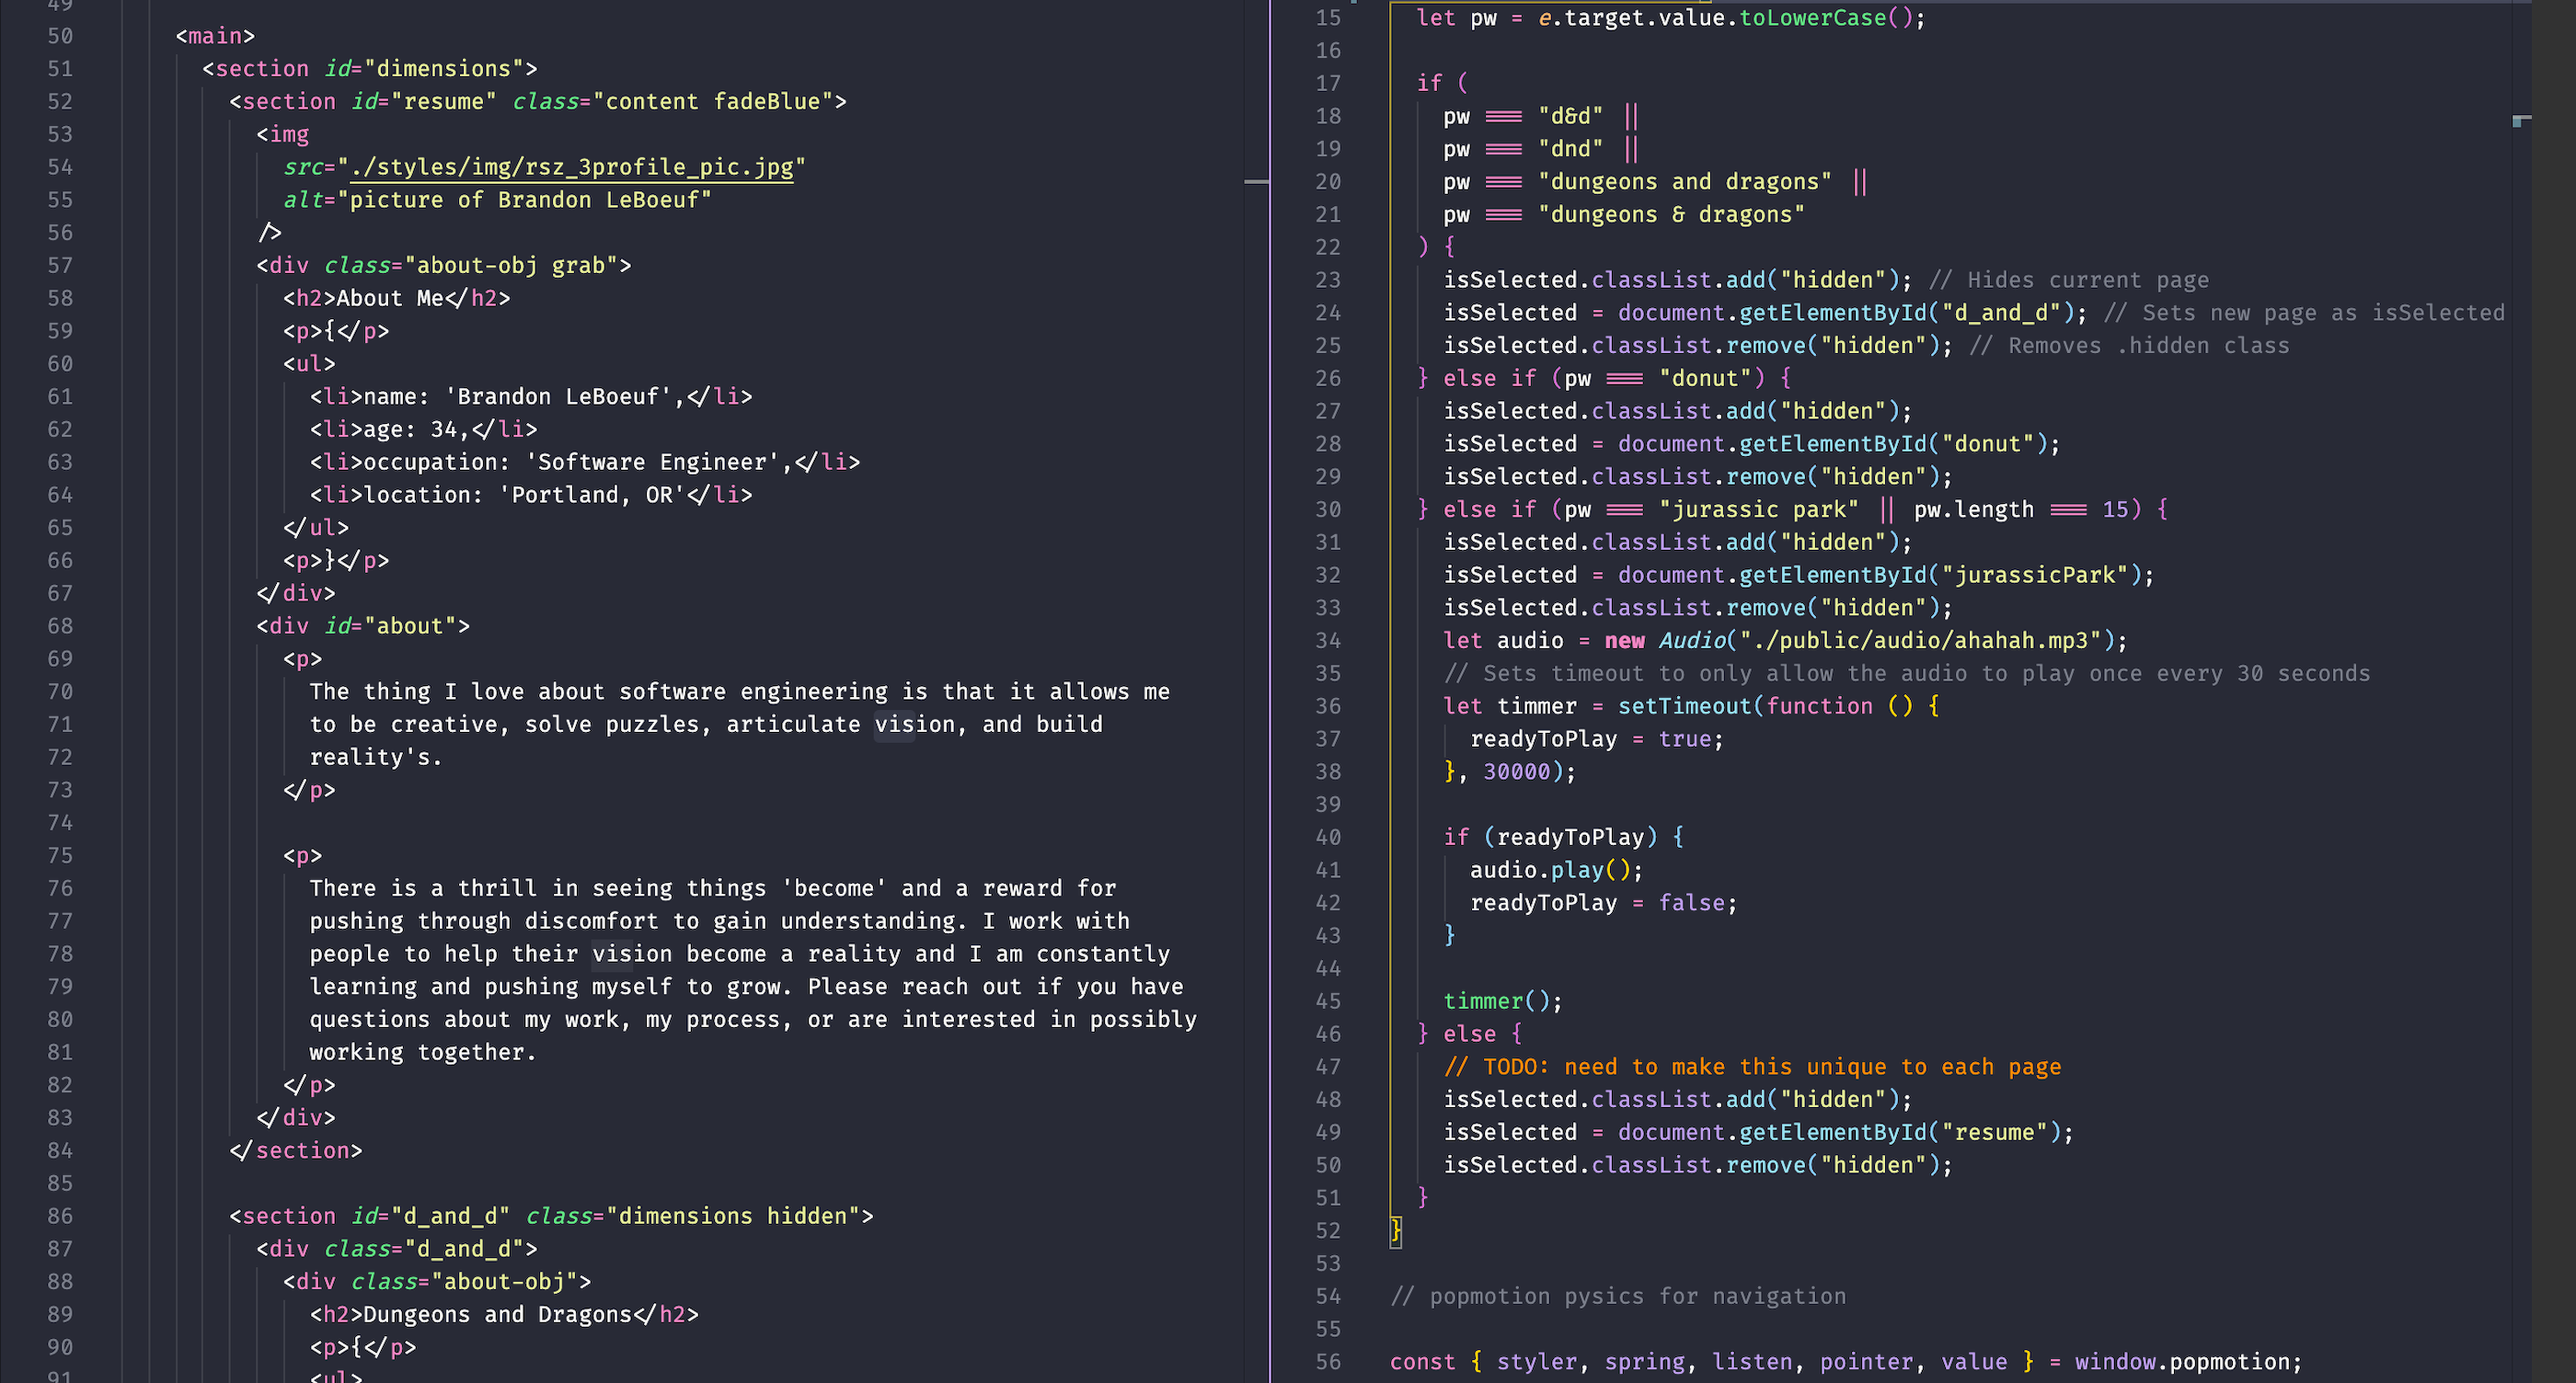
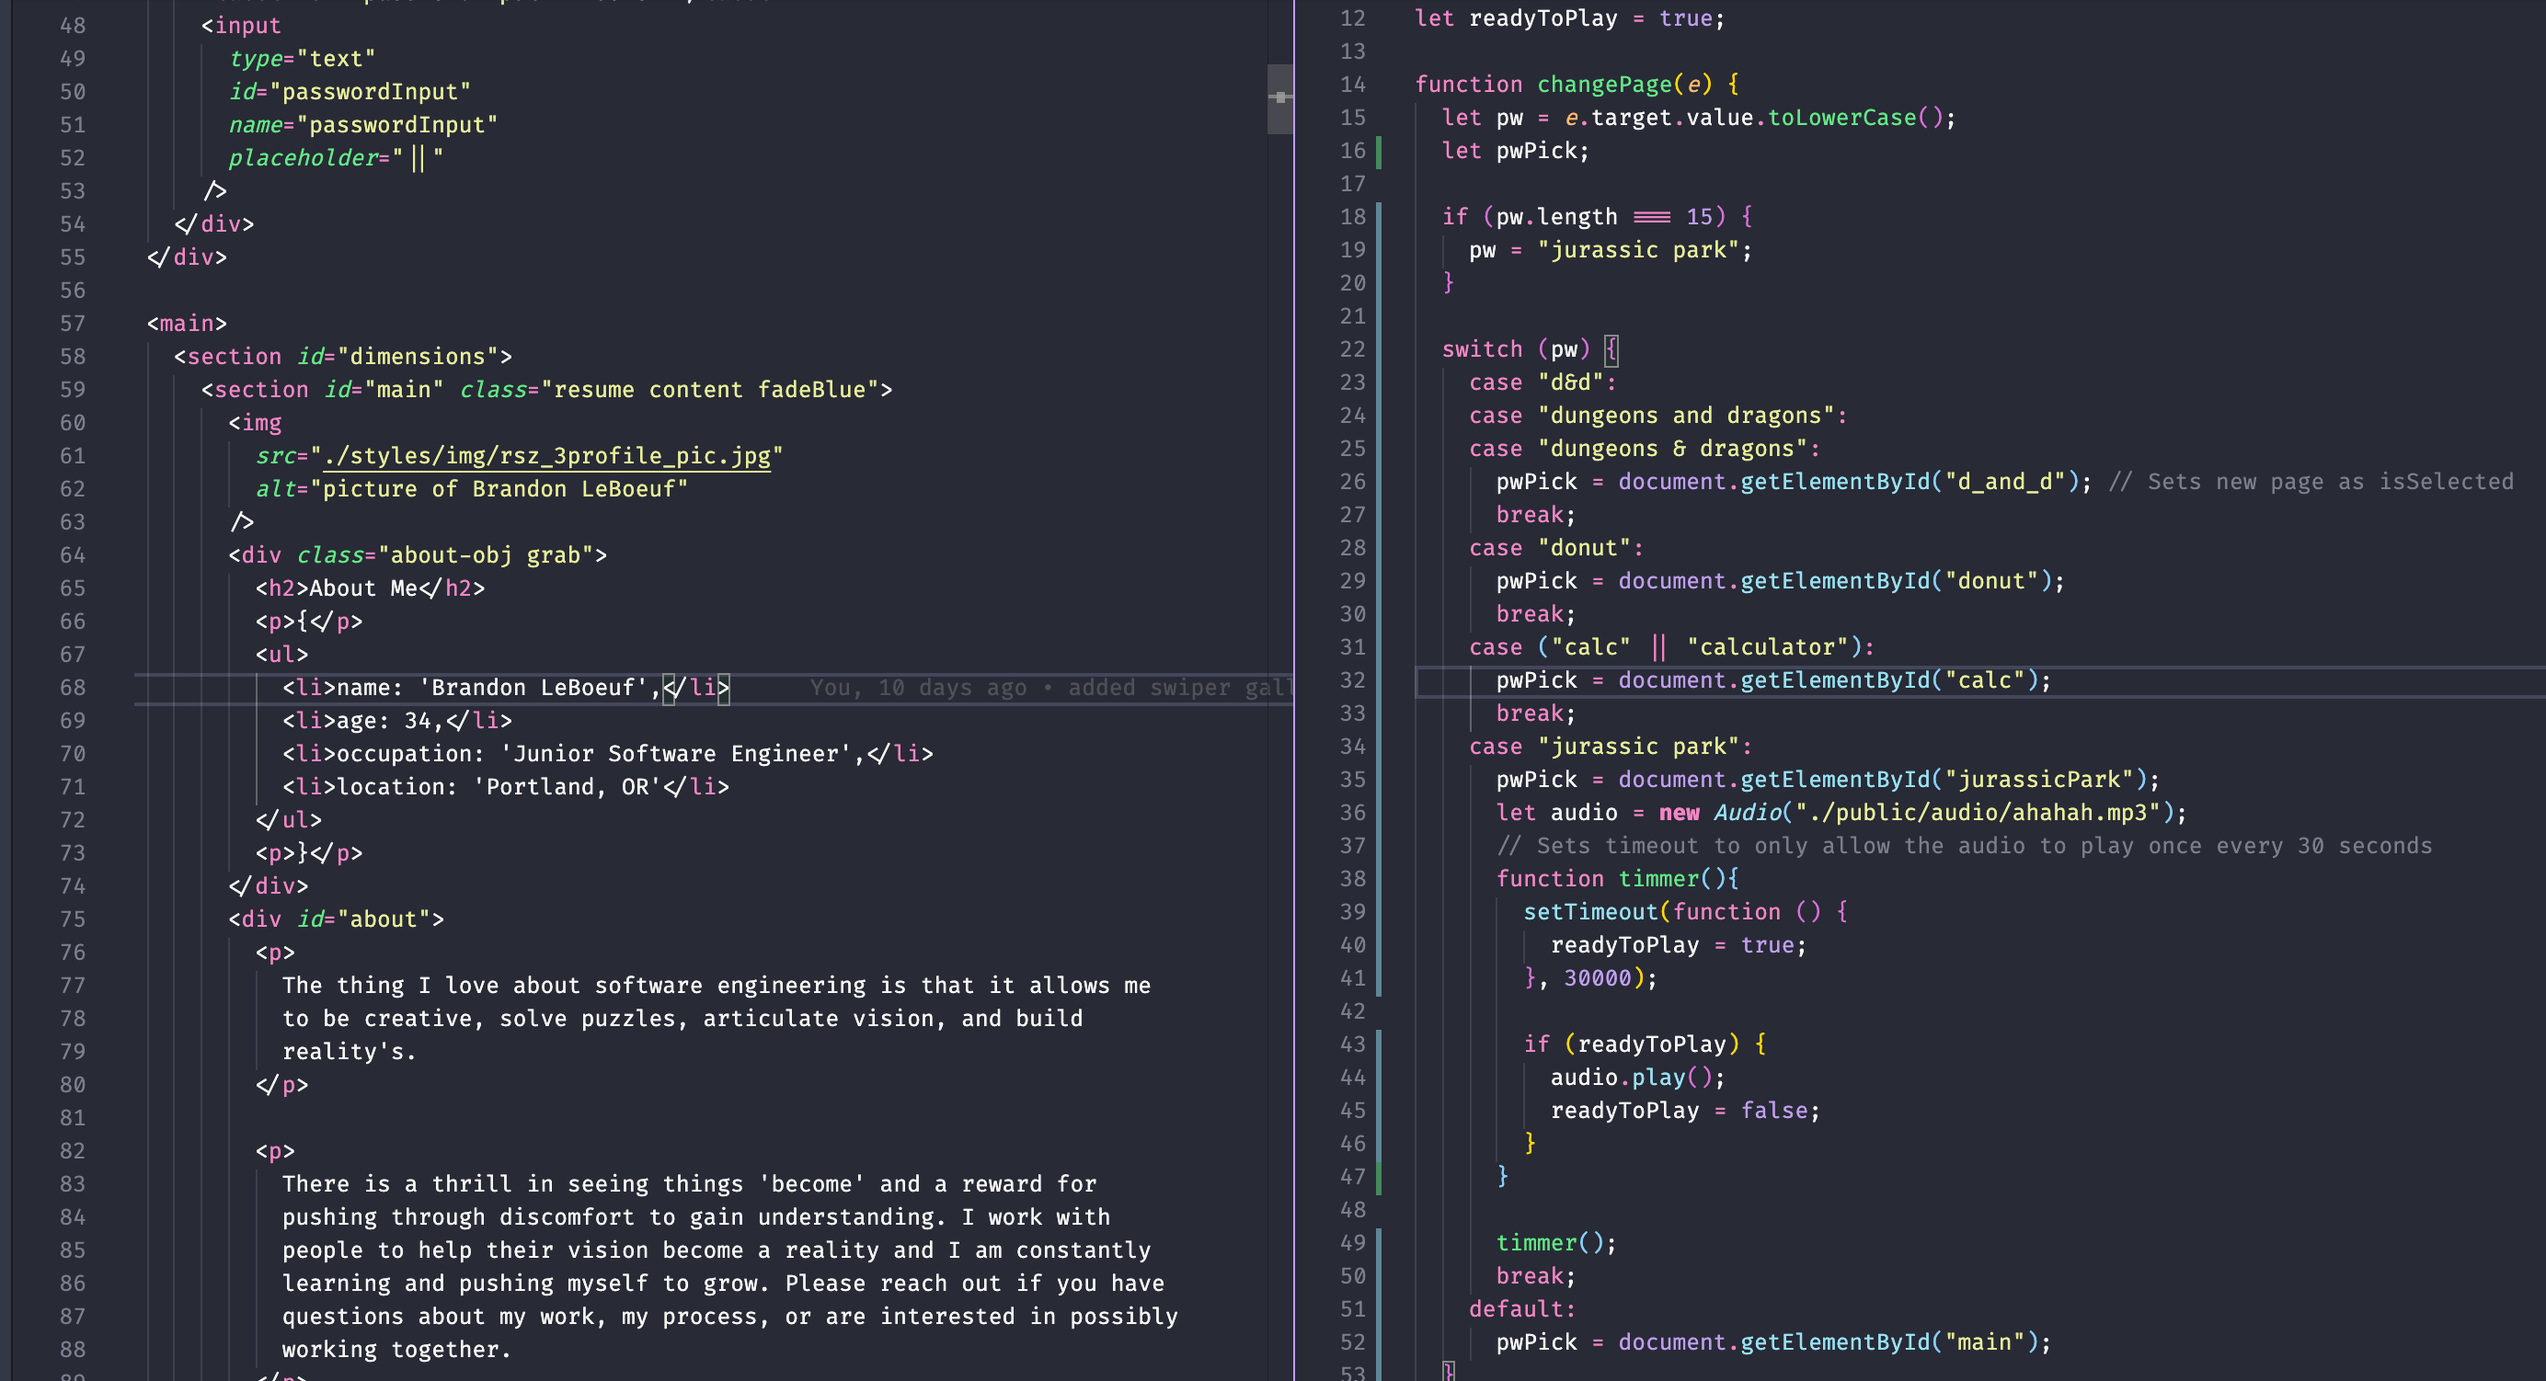
max width set

diff --git a/scripts/script.js b/scripts/script.js
@@ -13,45 +13,47 @@ let readyToPlay = true;
 
 function changePage(e) {
   let pw = e.target.value.toLowerCase();
+  let pwPick;
 
-  if (
-    pw === "d&d" ||
-    pw === "dnd" ||
-    pw === "dungeons and dragons" ||
-    pw === "dungeons & dragons"
-  ) {
-    isSelected.classList.add("hidden"); // Hides current page
-    isSelected = document.getElementById("d_and_d"); // Sets new page as isSelected
-    isSelected.classList.remove("hidden"); // Removes .hidden class
-  } else if (pw === "donut") {
-    isSelected.classList.add("hidden");
-    isSelected = document.getElementById("donut");
-    isSelected.classList.remove("hidden");
-  } else if (pw === "calc" || pw === "calculator") {
-    isSelected.classList.add("hidden");
-    isSelected = document.getElementById("calc");
-    isSelected.classList.remove("hidden");
-  } else if (pw === "jurassic park" || pw.length === 15) {
-    isSelected.classList.add("hidden");
-    isSelected = document.getElementById("jurassicPark");
-    isSelected.classList.remove("hidden");
-    let audio = new Audio("./public/audio/ahahah.mp3");
-    // Sets timeout to only allow the audio to play once every 30 seconds
-    let timmer = setTimeout(function () {
-      readyToPlay = true;
-    }, 30000);
-
-    if (readyToPlay) {
-      audio.play();
-      readyToPlay = false;
-    }
-
-    timmer();
-  } else {
-    isSelected.classList.add("hidden");
-    isSelected = document.getElementById("main");
-    isSelected.classList.remove("hidden");
+  if (pw.length === 15) {
+    pw = "jurassic park";
   }
+  
+  switch (pw) {
+    case "d&d": 
+    case "dungeons and dragons":
+    case "dungeons & dragons":
+      pwPick = document.getElementById("d_and_d"); // Sets new page as isSelected
+      break;
+    case "donut":
+      pwPick = document.getElementById("donut");
+      break;
+    case ("calc" || "calculator"):
+      pwPick = document.getElementById("calc");
+      break;
+    case "jurassic park":
+      pwPick = document.getElementById("jurassicPark");
+      let audio = new Audio("./public/audio/ahahah.mp3");
+      // Sets timeout to only allow the audio to play once every 30 seconds
+      function timmer(){
+        setTimeout(function () {
+          readyToPlay = true;
+        }, 30000);
+
+        if (readyToPlay) {
+          audio.play();
+          readyToPlay = false;
+        }
+      }
+
+      timmer();
+      break;
+    default:
+      pwPick = document.getElementById("main");
+  }
+  isSelected.classList.add("hidden"); 
+  isSelected = pwPick;
+  isSelected.classList.remove("hidden");
 }
 
 // popmotion pysics for navigation

diff --git a/styles/styles.css b/styles/styles.css
@@ -240,6 +240,15 @@ section {
   padding-top: 50px;
 }
 
+#d_and_d img {
+ 
+  /* max-width: 400; */
+  min-width: 150px;
+  max-width: 400px;
+  /* margin: 20px auto; */
+  border-radius: 10px;
+}
+
 .d_and_d {
   display: flex;
   justify-content: space-around;
@@ -324,14 +333,7 @@ section {
   /* min-width: 400px; */
 }
 
-#d_and_d img {
-  max-height: 900px;
-  min-height: 400;
-  /* max-width: 400; */
-  min-width: 150px;
-  /* margin: 20px auto; */
-  border-radius: 10px;
-}
+
 
 .hidden {
   display: none;
@@ -511,7 +513,8 @@ section {
 
 .swiper-width {
   margin: auto;
-  padding: 5rem 10rem;
+  padding: 3rem 50px;
+  max-width: 1100px;
   width: 100vw;
 }
 

diff --git a/resources.html b/resources.html
@@ -344,7 +344,7 @@
           <div class="resources-obj">
             <h2>Deeper Digging</h2>
             <ul>
-              <li><a href="https://parceljs.org/">Parcel/a></li>
+              <li><a href="https://parceljs.org/">Parcel</a></li>
              
             </ul>
           </div>
